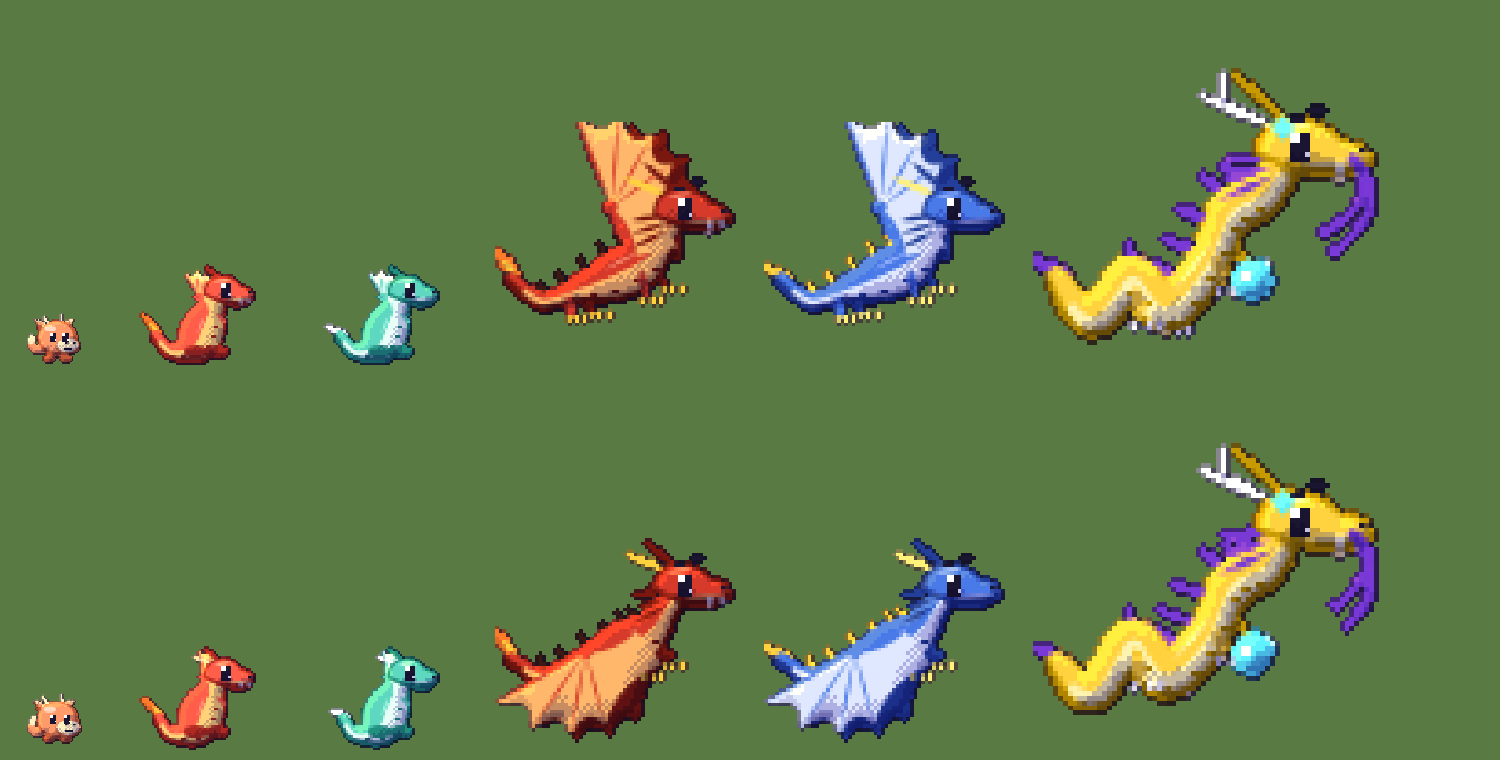
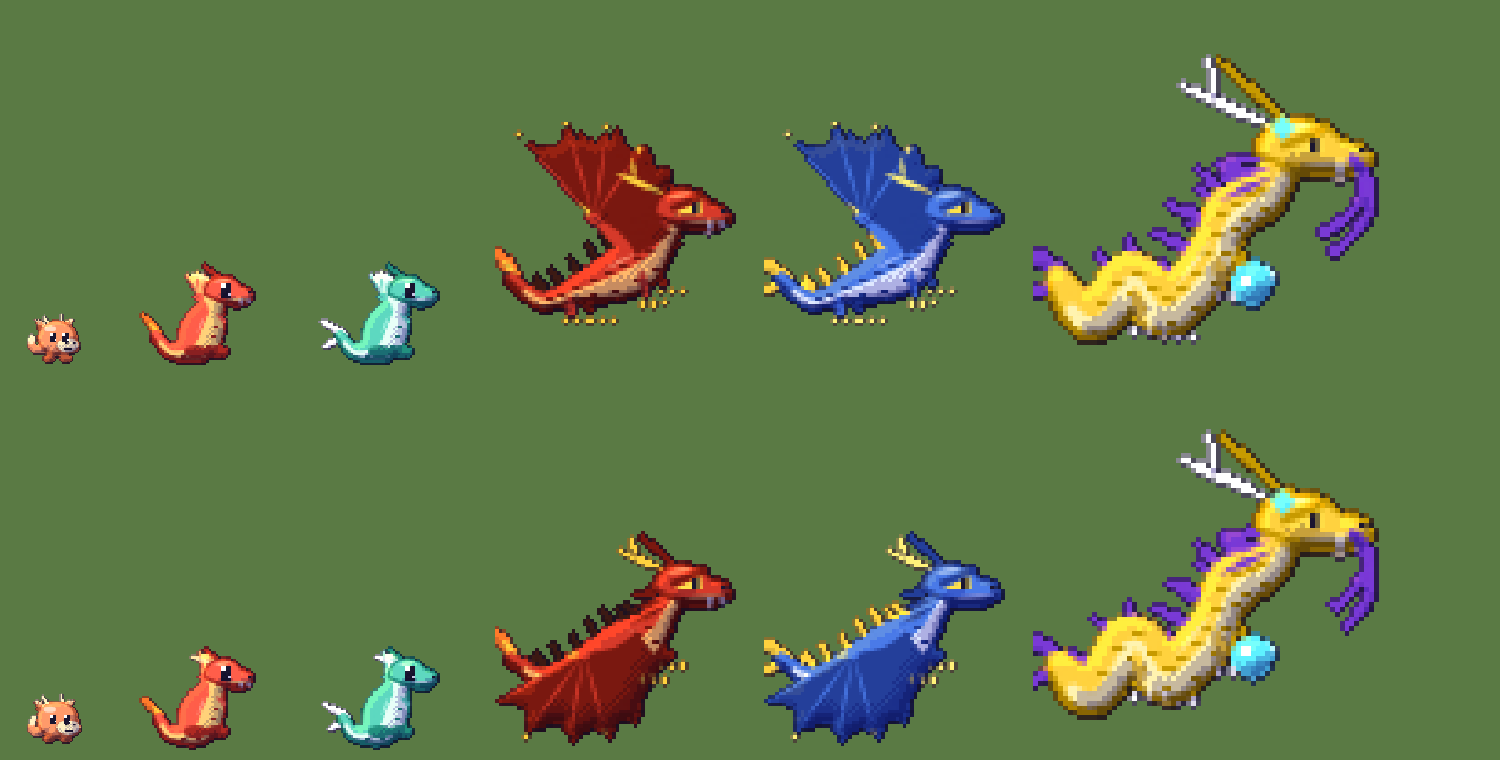
目を 今までの描き方に もどす・りゅうを かっこよく（するどい目・暗い つばさ・とげ）
- みず：キラキラの 大きな目（cuteEyes）を やめて、ほかの種族と同じ eyes() に。まるい体と 小さな口は そのまま
- りゅう：つりあがった 金色の目に たての ひとみ・まゆの とげ・長い つの・暗い まくの つばさと 指の つめ・大きな せなかの とげ・うろこ・しっぽの やいば・長い つめ。うねる形は そのまま

Claude-Session: https://claude.ai/code/session_0123UptJxvfEXsQxns9cL3Y3

diff --git a/src/world/monsters.ts b/src/world/monsters.ts
@@ -1451,7 +1451,7 @@ function tube(g: G, c: string, pts: Pt[], R: (t: number) => number, ox = 0, oy =
   }
 }
 /** こうもり型の つばさ：うで → 手首から 指の骨が ひろがり、あいだに 波形の まく */
-function membraneWing(g: G, sx: number, sy: number, len: number, ang: number, trail: number, bone: string, skin: string) {
+function membraneWing(g: G, sx: number, sy: number, len: number, ang: number, trail: number, bone: string, skin: string, claw?: string) {
   const wx = sx + Math.cos(ang) * len * 0.42
   const wy = sy + Math.sin(ang) * len * 0.42
   const tips: Pt[] = []
@@ -1473,7 +1473,12 @@ function membraneWing(g: G, sx: number, sy: number, len: number, ang: number, tr
       g.quadraticCurveTo((a[0] + b[0]) / 2 + (wx - (a[0] + b[0]) / 2) * 0.34, (a[1] + b[1]) / 2 + (wy - (a[1] + b[1]) / 2) * 0.34, b[0], b[1])
     }
   })
-  for (const tp of tips) leaf(g, bone, wx, wy, tp[0], tp[1], 0.45)
+  for (const tp of tips) {
+    leaf(g, bone, wx, wy, tp[0], tp[1], 0.45)
+    // 指の先の つめ
+    if (claw) leaf(g, claw, tp[0], tp[1], tp[0] + (tp[0] - wx) * 0.12, tp[1] + (tp[1] - wy) * 0.12, 0.5)
+  }
+  if (claw) leaf(g, claw, wx, wy, wx + Math.cos(ang) * len * 0.14, wy + Math.sin(ang) * len * 0.14 - 0.6, 0.6)
   leaf(g, bone, sx, sy, wx, wy, len * 0.07 + 0.5)
   ell(g, bone, wx, wy, 0.9, 0.9)
 }
@@ -1486,11 +1491,11 @@ function dragonHead(g: G, p: Pose, L: Look, hx: number, hy: number, hr: number, 
   const jaw = open ? hr * 0.42 : 0
   const sn = hr * (1.5 + up * 0.5) // 口さきの長さ
   // つの（奥 → 手前）
-  const hl = (2.6 + up * 4.2) * (hr / 4)
+  const hl = (3 + up * 5.6) * (hr / 4)
   if (L.horn) {
     leaf(g, S, hx - hr * 0.1, hy - hr * 0.7, hx - hr * 0.5 - hl * 0.75, hy - hr * 0.9 - hl * 0.75, 0.9)
     leaf(g, L.horn, hx - hr * 0.45, hy - hr * 0.6, hx - hr * 0.9 - hl, hy - hr * 0.6 - hl * 0.55, 1.0)
-    if (up > 0.9) leaf(g, L.horn, hx - hr * 0.9 - hl * 0.5, hy - hr * 0.6 - hl * 0.28, hx - hr * 0.7 - hl * 0.7, hy - hr * 0.6 - hl * 0.95, 0.7)
+    if (up > 0.4) leaf(g, L.horn, hx - hr * 0.9 - hl * 0.5, hy - hr * 0.6 - hl * 0.28, hx - hr * 0.7 - hl * 0.7, hy - hr * 0.6 - hl * 0.95, 0.7)
   }
   // ほおの ひれ（おとな）
   if (up > 0.3) for (let i = 0; i < 3; i++) leaf(g, L.mane ?? S, hx - hr * 0.5, hy + hr * (0.1 + i * 0.25), hx - hr * (1.5 + up * 0.5), hy + hr * (0.25 + i * 0.5), 0.8)
@@ -1526,7 +1531,14 @@ function dragonHead(g: G, p: Pose, L: Look, hx: number, hy: number, hr: number, 
   leaf(g, H, hx - hr * 0.5, hy - hr * 0.55, hx + hr * 0.4, hy - hr * 0.7, 0.5)
   // はなの あな・目・きば
   rect(g, dark, hx + sn * 0.82, hy - hr * 0.08, 0.8, 0.6)
-  eyes(g, [hx + hr * 0.15], hy - hr * 0.22, p.eye === 'open' && up > 0.3 ? 'angry' : p.eye, dark)
+  if (up > 0.3 && p.eye !== 'closed' && p.eye !== 'sleepy' && p.eye !== 'happy' && p.eye !== 'hurt') {
+    // するどい目：つりあがった 金色の目に たての ひとみ、上に まゆの とげ
+    const ex = hx + hr * 0.2
+    const ey = hy - hr * 0.2
+    poly(g, '#ffe14a', [ex - 1.8, ey + 0.9, ex + 1.9, ey - 1.1, ex + 2.1, ey + 0.9])
+    rect(g, dark, ex + 0.5, ey - 0.6, 0.8, 1.5)
+    poly(g, S, [ex - 2.4, ey - 0.2, ex + 2.6, ey - 2.2, ex + 2.2, ey - 1.1, ex - 2, ey + 0.6])
+  } else eyes(g, [hx + hr * 0.15], hy - hr * 0.22, p.eye, dark)
   if (L.gem) poly(g, L.gem, [hx - hr * 0.3, hy - hr * 0.95, hx - hr * 0.3 + 1.3, hy - hr * 0.95 + 1.3, hx - hr * 0.3, hy - hr * 0.95 + 2.6, hx - hr * 0.3 - 1.3, hy - hr * 0.95 + 1.3])
   if (L.fang) {
     poly(g, '#ffffff', [hx + sn * 0.5, hy + hr * 0.32, hx + sn * 0.5 + 1, hy + hr * 0.32, hx + sn * 0.5 + 0.5, hy + hr * 0.32 + 1.4 + up])
@@ -1594,7 +1606,7 @@ function dragon(g: G, p: Pose, f: number, L: Look, kind: 0 | 1 | 2): Geom {
     hr = 3.9
   } else {
     pts = [[1.5, 23 + wv(0)], [5, 26 + wv(1)], [9, 22 + wv(2)], [12.5, 26 + wv(3) * 0.6], [16.5, 22], [19, 17 + wv(4) * 0.4], [22.5, 14.5], [25, 10.5]]
-    R = (t) => 0.6 + Math.sin(Math.pow(t, 0.75) * Math.PI) * 1.25 + (t > 0.7 ? 0.5 : 0)
+    R = (t) => 0.7 + Math.sin(Math.pow(t, 0.75) * Math.PI) * 1.6 + (t > 0.7 ? 0.5 : 0)
     hr = 4.0
   }
   pts = pts.map(([x, y]) => [x + ox, y + oy] as Pt)
@@ -1608,8 +1620,8 @@ function dragon(g: G, p: Pose, f: number, L: Look, kind: 0 | 1 | 2): Geom {
   }
   // つばさ（成長期は 小さく・成熟期は 大きく）
   const sh = at(kind === 0 ? 0.72 : 0.6)
-  const wl = kind === 0 ? 7.5 : 18
-  const wa = asleep ? 2.6 : kind === 0 ? -2.2 - p.flap * 0.25 + (down ? 0.35 : 0) : down ? 2.75 : -2.05
+  const wl = kind === 0 ? 7.5 : 18.5
+  const wa = asleep ? 2.6 : kind === 0 ? -2.2 - p.flap * 0.25 + (down ? 0.35 : 0) : down ? 2.75 : -2.42
   const wt = asleep || (kind === 1 && down) ? -1 : 1
   if (kind < 2 && !asleep) membraneWing(g, sh[0] + 1.2, sh[1] - 1, wl * 0.9, wa + (kind === 1 && down ? -0.25 : 0.28), wt, S, S)
   // たてがみ（天のりゅう）：せなかに そって ながれる 毛
@@ -1622,24 +1634,29 @@ function dragon(g: G, p: Pose, f: number, L: Look, kind: 0 | 1 | 2): Geom {
     }
   // せなかの とげ
   if (L.spike)
-    for (let i = 0; i < (kind === 2 ? 0 : 6); i++) {
-      const t = 0.22 + i * 0.1
+    for (let i = 0; i < (kind === 2 ? 12 : 8); i++) {
+      const t = 0.14 + i * (kind === 2 ? 0.065 : 0.085)
       const q = at(t)
       const n = norm(t)
-      leaf(g, L.spike, q[0] - 0.8, q[1], q[0] + n[0] * (R(t) + 1.6 + up * 1.4) - 1, q[1] + n[1] * (R(t) + 1.6 + up * 1.4), 0.8)
+      const sl = kind === 2 ? 1.4 : 1.8 + up * 2.2
+      leaf(g, L.spike, q[0] - 0.8, q[1], q[0] + n[0] * (R(t) + sl) - 1.4, q[1] + n[1] * (R(t) + sl), 0.9)
     }
   // しっぽの先：ほのお / やいば
   const tp = pts[0]
   if (L.tail === 'flame') {
     leaf(g, '#ff7a2a', tp[0] + 1, tp[1], tp[0] - 3 - (f % 2), tp[1] - 4.5, 1.8)
     leaf(g, '#ffd23f', tp[0] + 0.8, tp[1], tp[0] - 1.6, tp[1] - 2.6, 0.9)
-  } else leaf(g, L.spike ?? L.horn ?? S, tp[0] + 1.5, tp[1], tp[0] - 3.2, tp[1] - 1.8, 1.3)
+  } else {
+    // しっぽの先の やいば（上下に ひらく）
+    leaf(g, L.spike ?? L.horn ?? S, tp[0] + 1.5, tp[1], tp[0] - 4.2, tp[1] - 3, 1.5)
+    leaf(g, L.spike ?? L.horn ?? S, tp[0] + 1.5, tp[1], tp[0] - 3.6, tp[1] + 2.4, 1.2)
+  }
   // あし：奥
   const legAt = (t: number, len: number, c: string, sw: number) => {
     const q = at(t)
     const r = R(t)
     leaf(g, c, q[0], q[1] + r * 0.3, q[0] + 1.2 + sw, q[1] + r + len, 1.1 + up * 0.3)
-    for (const dx of [-0.8, 0.4, 1.6]) rect(g, L.horn ?? '#fff0c2', q[0] + 1.2 + sw + dx, q[1] + r + len - 0.2, 0.7, 1)
+    for (const dx of [-0.9, 0.4, 1.7]) leaf(g, L.horn ?? '#fff0c2', q[0] + 1.2 + sw + dx, q[1] + r + len - 0.4, q[0] + 1.8 + sw + dx * 1.3, q[1] + r + len + 1.6, 0.45)
   }
   if (kind > 0) {
     legAt(0.34, 2.2, S, 1.4)
@@ -1656,6 +1673,14 @@ function dragon(g: G, p: Pose, f: number, L: Look, kind: 0 | 1 | 2): Geom {
     const r = R(t)
     ell(g, belly, q[0] - n[0] * r * 0.5, q[1] - n[1] * r * 0.5, r * 0.52, r * 0.52)
   }
+  // うろこ（せなか側に ちいさな 弧を ならべる）
+  if (kind > 0)
+    for (let i = 0; i < (kind === 2 ? 14 : 8); i++) {
+      const t = 0.2 + i * (kind === 2 ? 0.05 : 0.07)
+      const q = at(t)
+      const n = norm(t)
+      rect(g, S, q[0] + n[0] * R(t) * 0.35 - 0.5, q[1] + n[1] * R(t) * 0.35, 1.2, 0.5)
+    }
   // おなかの ふし
   for (let i = 0; i < (kind === 2 ? 9 : 5); i++) {
     const t = 0.3 + i * (kind === 2 ? 0.065 : 0.09)
@@ -1677,7 +1702,7 @@ function dragon(g: G, p: Pose, f: number, L: Look, kind: 0 | 1 | 2): Geom {
   // 手前の つばさ
   if (kind < 2) {
     if (asleep) leaf(g, S, sh[0], sh[1] - 1, sh[0] - 7, sh[1] + 2, 2)
-    else membraneWing(g, sh[0], sh[1] - 1.2, wl, wa, wt, B, belly)
+    else membraneWing(g, sh[0], sh[1] - 1.2, wl, wa, wt, B, kind === 1 ? S : belly, kind === 1 ? L.horn : undefined)
   }
   // 天のりゅう：手に もつ 光の玉 と ひげ
   if (kind === 2) {
@@ -1737,16 +1762,6 @@ function waterDrop(g: G, p: Pose, f: number, L: Look): Geom {
   else rect(g, dark, mx + 0.3, my, 1.5, 0.5)
   return { bx: cx, by: cy, rx: r, ry: r, hx: cx, hy: cy, hr: r, mx, my, cols: [B, S, H] }
 }
-/** かわいい目：まるく 大きく、光を 2 つ。ひらいた目 いがいは ふつうの eyes() */
-function cuteEyes(g: G, xs: number[], y: number, mode: Pose['eye'], color: string, r = 1.7) {
-  if (mode !== 'open' && mode !== 'hungry' && mode !== 'worry' && mode !== 'angry') return eyes(g, xs, y, mode, color)
-  for (const x of xs) {
-    ell(g, color, x, y, r, r * 1.15)
-    rect(g, '#ffffff', x - r * 0.7, y - r * 0.8, r * 0.8, r * 0.8)
-    rect(g, '#ffffff', x + r * 0.2, y + r * 0.35, 0.6, 0.6)
-  }
-  if (mode === 'angry' || mode === 'worry') xs.forEach((x, k) => brow(g, color, x, y - r * 0.4, xs.length === 1 ? -1 : k === 0 ? 1 : -1, mode))
-}
 /** にっこりの口（ちいさな「ω」）か、Pose の口 */
 function cuteMouth(g: G, p: Pose, x: number, y: number, dark: string) {
   if (p.mouth) return mouthShape(g, p.mouth, x - 1.2, y, dark, false)
@@ -1787,7 +1802,7 @@ function bubbleFry(g: G, p: Pose, f: number, L: Look): Geom {
     ell(g, H, bx - 0.2, by - 0.2, br - 0.6, br - 0.6)
     rect(g, '#ffffff', bx - br * 0.5, by - br * 0.5, 0.6, 0.6)
   }
-  cuteEyes(g, [cx - r * 0.25, cx + r * 0.42], cy - r * 0.02, p.eye, dark, 1.8)
+  eyes(g, [cx - r * 0.25, cx + r * 0.42], cy - r * 0.02, p.eye, dark)
   ell(g, '#ffb0c0', cx - r * 0.58, cy + r * 0.36, 1.4, 0.8)
   ell(g, '#ffb0c0', cx + r * 0.72, cy + r * 0.36, 1.2, 0.8)
   const mx = cx + r * 0.1
@@ -1836,7 +1851,7 @@ function shellCrawler(g: G, p: Pose, f: number, L: Look): Geom {
   ell(g, '#ff9ecb', sx - sr * 0.22, sy - sr * 0.42, 1.3, 1.3)
   poly(g, '#ff9ecb', [sx - sr * 0.62, sy - sr * 0.36, sx - sr * 0.06, sy - sr * 0.36, sx - sr * 0.34, sy - sr * 0.12])
   leaf(g, '#ffffff', sx - sr * 0.7, sy - sr * 0.05, sx - sr * 0.45, sy - sr * 0.62, 0.6)
-  cuteEyes(g, [hx - hr * 0.05, hx + hr * 0.55], hy - hr * 0.05, p.eye, dark, 1.6)
+  eyes(g, [hx - hr * 0.05, hx + hr * 0.55], hy - hr * 0.05, p.eye, dark)
   ell(g, '#ffb0c0', hx - hr * 0.3, hy + hr * 0.42, 1.2, 0.7)
   const mx = hx + hr * 0.28
   const my = hy + hr * 0.42
@@ -1888,7 +1903,7 @@ function seaFish(g: G, p: Pose, f: number) {
   // むなびれ（ぱたぱた）
   leaf(g, S, cx + rx * 0.05, cy + ry * 0.35, cx - rx * 0.4, cy + ry * 1.15 - p.flap * 1.5, 2.1)
   leaf(g, fin, cx, cy + ry * 0.4, cx - rx * 0.3, cy + ry * 0.95 - p.flap * 1.5, 0.9)
-  cuteEyes(g, [cx + rx * 0.3, cx + rx * 0.76], cy - ry * 0.12, p.eye, '#14305a', 1.9)
+  eyes(g, [cx + rx * 0.3, cx + rx * 0.76], cy - ry * 0.12, p.eye, '#14305a')
   ell(g, '#ffb0c0', cx + rx * 0.1, cy + ry * 0.28, 1.4, 0.8)
   cuteMouth(g, p, cx + rx * 0.56, cy + ry * 0.3, '#14305a')
 }
@@ -1925,7 +1940,7 @@ function cloudJelly(g: G, p: Pose, f: number) {
   ell(g, '#ffe6f2', cx + 1, cy - 7.2, bw * 0.34, 1.7)
   leaf(g, '#ffffff', cx - bw * 0.62, cy - 2.5, cx - bw * 0.3, cy - 7.5, 0.9)
   for (let i = 0; i < 5; i++) ell(g, pink, cx - bw * 0.72 + i * bw * 0.36, cy + 2.4, 1.1, 0.8)
-  cuteEyes(g, [cx - 2.6, cx + 3.4], cy - 2.2, p.eye, '#4a2d6b', 2)
+  eyes(g, [cx - 2.6, cx + 3.4], cy - 2.2, p.eye, '#4a2d6b')
   ell(g, '#ffb0c0', cx - 5.6, cy, 1.6, 0.9)
   ell(g, '#ffb0c0', cx + 6.4, cy, 1.6, 0.9)
   cuteMouth(g, p, cx + 0.4, cy - 0.2, '#4a2d6b')
@@ -1988,7 +2003,7 @@ function tideSerpent(g: G, p: Pose, f: number) {
   // ひたいの しんじゅ
   ell(g, '#fff27a', hx + hr * 0.05, hy - hr * 0.62, 1.4, 1.4)
   rect(g, '#ffffff', hx + hr * 0.05 - 0.8, hy - hr * 0.62 - 0.8, 0.7, 0.7)
-  cuteEyes(g, [hx - hr * 0.32, hx + hr * 0.4], hy - hr * 0.16, p.eye, dark, 1.9)
+  eyes(g, [hx - hr * 0.32, hx + hr * 0.4], hy - hr * 0.16, p.eye, dark)
   ell(g, '#ffb0c0', hx - hr * 0.62, hy + hr * 0.32, 1.4, 0.8)
   cuteMouth(g, p, hx + hr * 0.45, hy + hr * 0.55, dark)
 }

diff --git a/CLAUDE.md b/CLAUDE.md
@@ -42,7 +42,7 @@ Three.js + TypeScript + Vite + vite-plugin-pwa。机の上に浮かぶ 3D の本
 ## ルール
 - **デザインはすべてオリジナル**。実在する製品・ゲームの本体形状、キャラ、ロゴ、アイコン、効果音を再現しない
 - 液晶は正方形。解像度：HUD は 320×320、箱庭は 480×480（`SCENE`）、出力は 960×960（`OUT`）。どちらも整数倍で拡大されるように保つ。世界のマテリアルは `psx()` で包む
-- モンスターのドット絵は 34×32 の座標で描き、2 倍（68×64）で焼いて自動陰影 + 色付き輪郭をかける（`pixelSprite(..., { shade: true })`）。自動陰影は ふちからの距離で ふくらみを作り、左上の光で 4 段（光は暖色・影は寒色へ 色相をずらす・内がわは網点）。輪郭は 光の側が うすく・影の側が こい。一覧は `tools/test/sprites.cjs`。**系統ごとの描きなおし**：ねこは 専用の `cat()` / `kitten()` / `catHead()`（大きめの頭・両目が顔の中の ななめ向き・口もと・はな・ほおの毛・しなる しっぽ `tailCurve`・ふとももと肉球・とがる しま）。いぬ・おおかみ（しっぽが いぬ）は 同じ体（`cat(…, true)` / `kitten(…, true)`）に `dogHead()`（前へ のびた口さき・黒い はな・たれ耳／おおかみは立ち耳・した）と ふさふさの しっぽ・くびわ・よろい。**進化の ちがい**：`up`（0 = 成長期 … 1 = 完成期、`Look.s` から）で 足が長く・体が長く・頭の割合が小さく・ほおの毛と きばが大きくなる。段階ごとの かざりは Look の `moon`（ひたいの三日月）`wisp`（しっぽの先の ひとだま）`scarf`（なびく スカーフ）`helm`（かぶと）`tiara`（頭の けっしょう）。**進化の 4 だんかいの形**（2026-11-13）：赤ちゃん = 顔だけの ちいさな つぶ `pip()`（体なし）→ 成長期 = ちいさな子ども（`s` 0.82 ほど）→ 成熟期 = 大きな けもの（1.2）→ 完成期 = かざりと武装で べつものの姿（1.45。`rune` 光る もよう・`orbs` うかぶ たま・`blade` せなかの けっしょうの はね・`plate` かたと足の よろい・`star` しっぽの先の ほし）。箱庭での高さは `TIER_BASE.h` = 0.72 / 1.15 / 1.7 / 2.3（全系統）。ほかの系統を描きなおす時も「体つき + 段階の かざり」で 差を出す。**とり**は `chick()`（赤ちゃん = まんまるの ひよこ）と `bird()`（**とぶ姿**：成長期から 上は `float: true` で 地面に立たず、コマごとに つばさを 上げる / 下ろす・ねむる時は たたむ）。**図形を かさねた感じを 出さない**：体は `shape()`（曲線で かこむ ひとつづきの形：おしり → せなか → 首 → 頭 → のど → おなか）、はねは `leaf()`（木の葉の形）を 1 まいずつ ならべる `featherWing()`。Look の `raptor` はやぶさ = とがった長い つばさ・かぎの くちばし / `owl` ふくろう = まるい顔と 広い つばさ / `spread`・`plume`・`halo` = ひかりの鳥。コマの見比べは `tools/test/sprites.cjs <dist> out.png <コマ番号>`。**りゅう**は `whelp()`（赤ちゃん = まるい頭の ちびりゅう）と `dragon(…, kind)`：0 成長期 = 地面に すわる 子りゅう・小さな つばさ / 1 成熟期 = まくの つばさ `membraneWing()` で とぶ（`float`）/ 2 完成期 = つばさの無い 長い体で 空を およぐ 天のりゅう（たてがみ・えだ分かれの つの・ひげ・光の玉）。体は 点の列を なめらかに つないだ線 `along()` に そって 太さの変わる くだ `tube()`（しっぽ → むね → 首）、あたまは `dragonHead()`。**みず**：赤ちゃん `waterDrop()`（しずく）→ 成長期 `bubbleFry()`（あわの おたまじゃくし）/ `shellCrawler()`（うずまきの から）→ 成熟期 `seaFish()`（なみのり魚）/ `cloudJelly()`（くもくらげ）→ 完成期 `tideSerpent()`（波から立つ うしおへび。頭は `dragonHead()`）。成熟期・完成期は 昔の種族（`hireru` / `fuwari` / `shioryu`）なので `DRAW_OLD` を 上書きしている。**かわいさの決まり**（2026-11-14、みずで「形が きもちわるい」と言われて直した）：リアルに寄せない（なめくじの体・ほそ長い しっぽ・ひも状の足・うねる ほそい体・小さい目 は さける）。まるい体・大きな頭・`cuteEyes()`（まるく大きい目に 光 2 つ）・`cuteMouth()`（小さな ω）・ほおの 赤み・みじかい手足・ハート形の ひれ。**PR の決まり**：出した PR に あとから コミットを足さない（足す前に マージされて 入りそこねが 3 回 起きた）。追加は 新しい PR にする。`critter()` の頭で 分かれる。ほかの系統も 同じ形で 1 つずつ 足していく（Look の指定は そのまま使う・Geom を返す）
+- モンスターのドット絵は 34×32 の座標で描き、2 倍（68×64）で焼いて自動陰影 + 色付き輪郭をかける（`pixelSprite(..., { shade: true })`）。自動陰影は ふちからの距離で ふくらみを作り、左上の光で 4 段（光は暖色・影は寒色へ 色相をずらす・内がわは網点）。輪郭は 光の側が うすく・影の側が こい。一覧は `tools/test/sprites.cjs`。**系統ごとの描きなおし**：ねこは 専用の `cat()` / `kitten()` / `catHead()`（大きめの頭・両目が顔の中の ななめ向き・口もと・はな・ほおの毛・しなる しっぽ `tailCurve`・ふとももと肉球・とがる しま）。いぬ・おおかみ（しっぽが いぬ）は 同じ体（`cat(…, true)` / `kitten(…, true)`）に `dogHead()`（前へ のびた口さき・黒い はな・たれ耳／おおかみは立ち耳・した）と ふさふさの しっぽ・くびわ・よろい。**進化の ちがい**：`up`（0 = 成長期 … 1 = 完成期、`Look.s` から）で 足が長く・体が長く・頭の割合が小さく・ほおの毛と きばが大きくなる。段階ごとの かざりは Look の `moon`（ひたいの三日月）`wisp`（しっぽの先の ひとだま）`scarf`（なびく スカーフ）`helm`（かぶと）`tiara`（頭の けっしょう）。**進化の 4 だんかいの形**（2026-11-13）：赤ちゃん = 顔だけの ちいさな つぶ `pip()`（体なし）→ 成長期 = ちいさな子ども（`s` 0.82 ほど）→ 成熟期 = 大きな けもの（1.2）→ 完成期 = かざりと武装で べつものの姿（1.45。`rune` 光る もよう・`orbs` うかぶ たま・`blade` せなかの けっしょうの はね・`plate` かたと足の よろい・`star` しっぽの先の ほし）。箱庭での高さは `TIER_BASE.h` = 0.72 / 1.15 / 1.7 / 2.3（全系統）。ほかの系統を描きなおす時も「体つき + 段階の かざり」で 差を出す。**とり**は `chick()`（赤ちゃん = まんまるの ひよこ）と `bird()`（**とぶ姿**：成長期から 上は `float: true` で 地面に立たず、コマごとに つばさを 上げる / 下ろす・ねむる時は たたむ）。**図形を かさねた感じを 出さない**：体は `shape()`（曲線で かこむ ひとつづきの形：おしり → せなか → 首 → 頭 → のど → おなか）、はねは `leaf()`（木の葉の形）を 1 まいずつ ならべる `featherWing()`。Look の `raptor` はやぶさ = とがった長い つばさ・かぎの くちばし / `owl` ふくろう = まるい顔と 広い つばさ / `spread`・`plume`・`halo` = ひかりの鳥。コマの見比べは `tools/test/sprites.cjs <dist> out.png <コマ番号>`。**りゅう**は `whelp()`（赤ちゃん = まるい頭の ちびりゅう）と `dragon(…, kind)`：0 成長期 = 地面に すわる 子りゅう・小さな つばさ / 1 成熟期 = まくの つばさ `membraneWing()` で とぶ（`float`）/ 2 完成期 = つばさの無い 長い体で 空を およぐ 天のりゅう（たてがみ・えだ分かれの つの・ひげ・光の玉）。体は 点の列を なめらかに つないだ線 `along()` に そって 太さの変わる くだ `tube()`（しっぽ → むね → 首）、あたまは `dragonHead()`。**みず**：赤ちゃん `waterDrop()`（しずく）→ 成長期 `bubbleFry()`（あわの おたまじゃくし）/ `shellCrawler()`（うずまきの から）→ 成熟期 `seaFish()`（なみのり魚）/ `cloudJelly()`（くもくらげ）→ 完成期 `tideSerpent()`（波から立つ うしおへび。頭は `dragonHead()`）。成熟期・完成期は 昔の種族（`hireru` / `fuwari` / `shioryu`）なので `DRAW_OLD` を 上書きしている。**かわいさの決まり**（2026-11-14、みずで「形が きもちわるい」と言われて直した）：リアルに寄せない（なめくじの体・ほそ長い しっぽ・ひも状の足・うねる ほそい体・小さい目 は さける）。まるい体・大きな頭・`cuteMouth()`（小さな ω）・ほおの 赤み・みじかい手足・ハート形の ひれ。**目は 今までどおり `eyes()`**（キラキラの 大きな目は 入れない。全種族で そろえる）。**りゅうは かっこよく**：うねる体のまま、つりあがった 金色の目に たての ひとみ・まゆの とげ・長い つの・暗い まくの つばさ（指の先に つめ）・大きな せなかの とげ・うろこ・しっぽの やいば。**PR の決まり**：出した PR に あとから コミットを足さない（足す前に マージされて 入りそこねが 3 回 起きた）。追加は 新しい PR にする。`critter()` の頭で 分かれる。ほかの系統も 同じ形で 1 つずつ 足していく（Look の指定は そのまま使う・Geom を返す）
 - 液晶のアイコン・ショップ・ステータスはタップでも操作できる（`World.tap(u, v)`、HUD の 320×320 座標で当たり判定）。何もない所のタップは眺めるモード（`world.cleanView` + body の `clean` クラスで文字・アイコン・ボタンを全部かくす）
 - 視点は `World.setView('top' | 'behind' | 'eye')`。右上の「視点」ボタンかキー V で切り替え、音量は「音」ボタン（`Beeper.setLevel`）
 - カメラ：2 本指ピンチ = `World.zoomBy`、2 本指ドラッグ = `World.panBy`（みおろしは前後左右、うしろ・めせんは向きと高さ）。パソコンはホイールと矢印キー。1 本指のタップは指を離した時に判定
